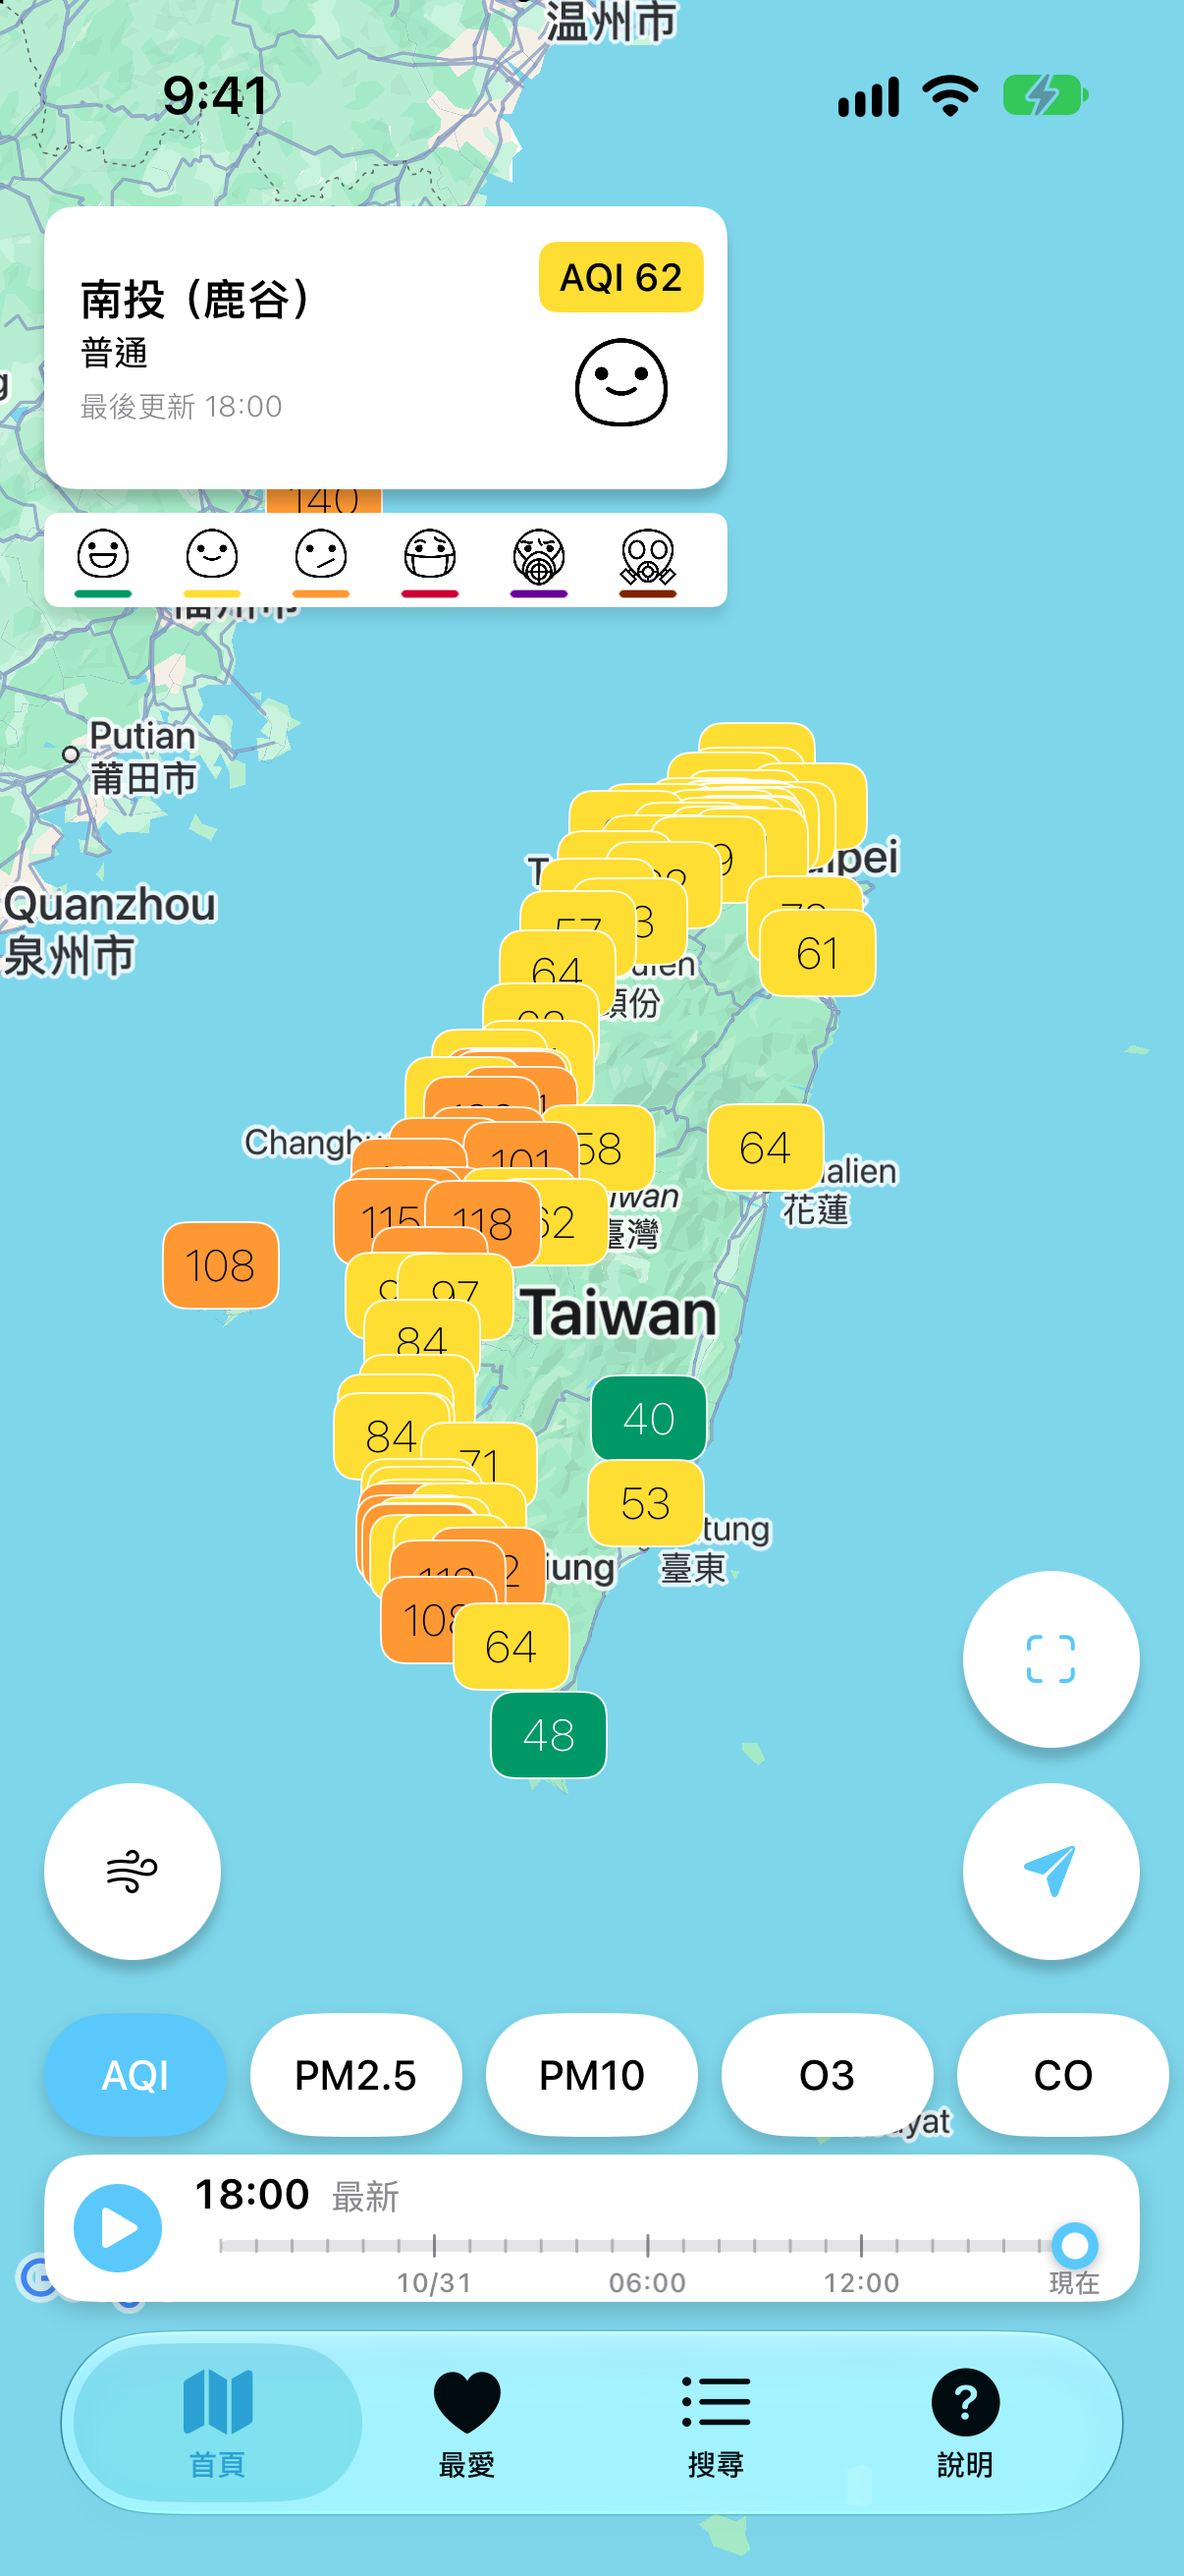
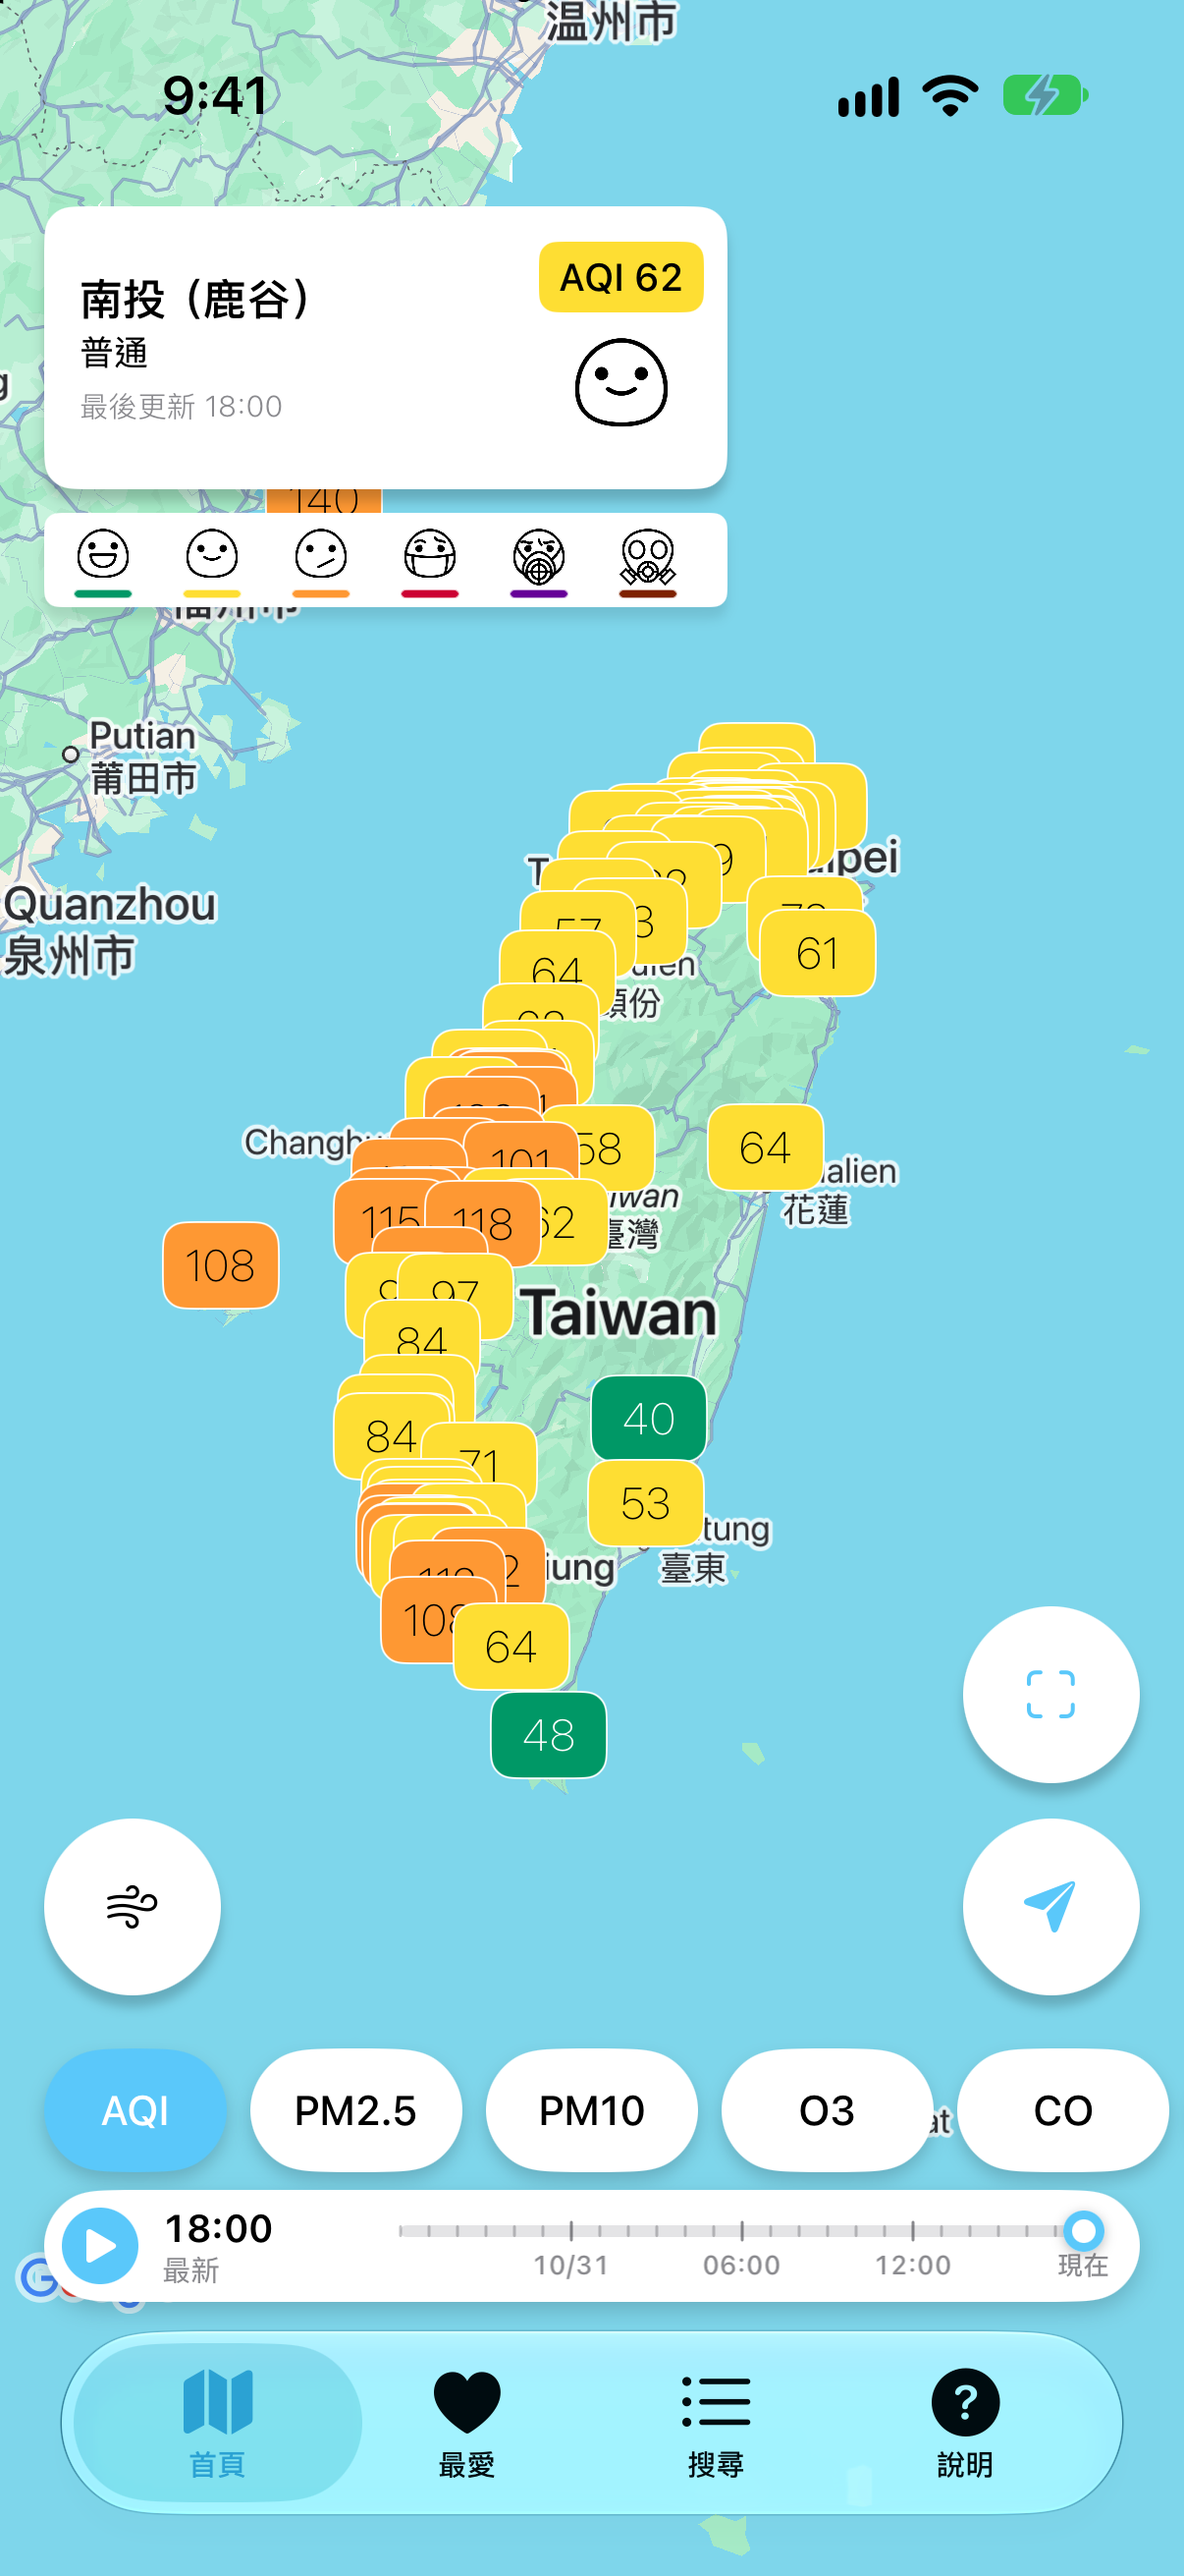
feat: one-row map timeline bar, 38pt tall
Play, the selected hour and the track now share a single row instead of
a title row stacked over the track (50pt -> 38pt). The loading count
takes the place of 「N 小時前」 while history arrives, replacing the
separate status label and spinner. Play is drawn at 26pt but takes taps
8pt beyond that, and the track takes the full bar height.

Screenshots refreshed.

Changed region(s): [[0.0307, 0.587, 1.0, 0.8959]]

diff --git a/TWAQI/Views/Main/MapTimelineView.swift b/TWAQI/Views/Main/MapTimelineView.swift
@@ -16,7 +16,12 @@ import UIKit
 /// hours before the latest reading and the right end is that reading; there is
 /// no forecast, so nothing lies to the right of "now".
 final class MapTimelineView: UIView {
-    static let preferredHeight: CGFloat = 50
+    /// One row: play, the selected hour, then the track. Kept low so the map
+    /// keeps the room; the touch targets reach past what is drawn.
+    static let preferredHeight: CGFloat = 38
+
+    /// Wide enough for 「昨天 22:00」, so the track doesn't shift as the hour changes.
+    private static let timeColumnWidth: CGFloat = 70
 
     /// The user moved the scrubber. Hours before the latest reading; 0 is live.
     var onChange: ((Int) -> Void)?
@@ -52,25 +57,17 @@ final class MapTimelineView: UIView {
         }
     }
 
-    /// Stations loaded out of those in view, while any are outstanding.
+    /// Stations loaded out of those in view, while any are outstanding. Shown
+    /// in place of 「N 小時前」 until they're in.
     var progress: (done: Int, total: Int)? {
-        didSet {
-            if let progress, progress.done < progress.total {
-                statusLabel.text = String(format: "Timeline.loading".localized, progress.done, progress.total)
-                spinner.startAnimating()
-            } else {
-                statusLabel.text = nil
-                spinner.stopAnimating()
-            }
-        }
+        didSet { updateDetail() }
     }
 
-    private static let playSymbol = UIImage.SymbolConfiguration(pointSize: 12, weight: .bold)
+    private static let playSymbol = UIImage.SymbolConfiguration(pointSize: 10, weight: .bold)
 
-    private let playButton = UIButton(type: .system)
-    private let titleLabel = UILabel()
-    private let statusLabel = UILabel()
-    private let spinner = UIActivityIndicatorView(style: .medium)
+    private let playButton = ExpandedHitButton(type: .system)
+    private let clockLabel = UILabel()
+    private let detailLabel = UILabel()
     private let track = MapTimelineTrack()
     private let selectionFeedback = UISelectionFeedbackGenerator()
 
@@ -89,7 +86,7 @@ final class MapTimelineView: UIView {
 
         // Same card treatment as the index pills and the closest-station card.
         backgroundColor = .tertiarySystemBackground
-        layer.cornerRadius = 14
+        layer.cornerRadius = Self.preferredHeight / 2
         layer.shadowColor = UIColor.black.cgColor
         layer.shadowOffset = CGSize(width: 0, height: 3)
         layer.shadowRadius = 4
@@ -97,40 +94,35 @@ final class MapTimelineView: UIView {
 
         playButton.backgroundColor = IndexSelectorView.accent
         playButton.tintColor = .white
-        playButton.layer.cornerRadius = 15
+        playButton.layer.cornerRadius = 13
         playButton.isEnabled = false
         playButton.addTarget(self, action: #selector(playTapped), for: .touchUpInside)
         isPlaying = false
         addSubview(playButton)
         playButton.snp.makeConstraints { make in
-            make.left.equalToSuperview().offset(10)
+            make.left.equalToSuperview().offset(6)
             make.centerY.equalToSuperview()
-            make.width.height.equalTo(30)
+            make.width.height.equalTo(26)
         }
 
-        titleLabel.adjustsFontForContentSizeCategory = false
-        addSubview(titleLabel)
-        titleLabel.snp.makeConstraints { make in
-            make.left.equalTo(playButton.snp.right).offset(10)
-            make.top.equalToSuperview().offset(5)
-            make.height.equalTo(17)
-        }
+        clockLabel.font = .monospacedDigitSystemFont(ofSize: 13, weight: .semibold)
+        clockLabel.textColor = .label
+        clockLabel.adjustsFontSizeToFitWidth = true
+        clockLabel.minimumScaleFactor = 0.8
+        detailLabel.font = .monospacedDigitSystemFont(ofSize: 10, weight: .regular)
+        detailLabel.textColor = .secondaryLabel
+        detailLabel.adjustsFontSizeToFitWidth = true
+        detailLabel.minimumScaleFactor = 0.8
 
-        statusLabel.font = .monospacedDigitSystemFont(ofSize: 11, weight: .regular)
-        statusLabel.textColor = .secondaryLabel
-        addSubview(statusLabel)
-        statusLabel.snp.makeConstraints { make in
-            make.right.equalToSuperview().offset(-12)
-            make.centerY.equalTo(titleLabel)
-            make.left.greaterThanOrEqualTo(titleLabel.snp.right).offset(8)
-        }
-
-        spinner.hidesWhenStopped = true
-        spinner.transform = CGAffineTransform(scaleX: 0.7, y: 0.7)
-        addSubview(spinner)
-        spinner.snp.makeConstraints { make in
-            make.right.equalTo(statusLabel.snp.left).offset(-2)
-            make.centerY.equalTo(titleLabel)
+        let timeStack = UIStackView(arrangedSubviews: [clockLabel, detailLabel])
+        timeStack.axis = .vertical
+        timeStack.spacing = 0
+        timeStack.isAccessibilityElement = false
+        addSubview(timeStack)
+        timeStack.snp.makeConstraints { make in
+            make.left.equalTo(playButton.snp.right).offset(8)
+            make.centerY.equalToSuperview()
+            make.width.equalTo(Self.timeColumnWidth)
         }
 
         track.isUserInteractionEnabled = false
@@ -138,10 +130,9 @@ final class MapTimelineView: UIView {
         track.onAccessibilityStep = { [weak self] delta in self?.step(by: delta) }
         addSubview(track)
         track.snp.makeConstraints { make in
-            make.left.equalTo(titleLabel)
-            make.right.equalToSuperview().offset(-12)
-            make.top.equalTo(titleLabel.snp.bottom)
-            make.bottom.equalToSuperview().offset(-1)
+            make.left.equalTo(timeStack.snp.right).offset(2)
+            make.right.equalToSuperview().offset(-10)
+            make.top.bottom.equalToSuperview()
         }
 
         updateSelection(animated: false)
@@ -174,28 +165,29 @@ final class MapTimelineView: UIView {
 
     private func updateSelection(animated: Bool) {
         track.setIndex(MapHistoryStore.hours - hoursAgo, animated: animated)
-        titleLabel.attributedText = title
-        track.accessibilityValue = titleLabel.attributedText?.string
+
+        let description = anchor.flatMap { MapTimeline.describe(anchor: $0, hoursAgo: hoursAgo) }
+        clockLabel.text = description?.clock ?? "Timeline.title".localized
+        updateDetail()
+        track.accessibilityValue = [description?.clock, description?.relative]
+            .compactMap { $0 }
+            .joined(separator: " ")
     }
 
-    /// "14:00  3 小時前", "昨天 22:00  19 小時前", or "17:00  最新".
-    private var title: NSAttributedString {
-        let primary: [NSAttributedString.Key: Any] = [
-            .font: UIFont.monospacedDigitSystemFont(ofSize: 14, weight: .semibold),
-            .foregroundColor: UIColor.label,
-        ]
-        let secondary: [NSAttributedString.Key: Any] = [
-            .font: UIFont.systemFont(ofSize: 12, weight: .regular),
-            .foregroundColor: UIColor.secondaryLabel,
-        ]
-
-        guard let anchor, let description = MapTimeline.describe(anchor: anchor, hoursAgo: hoursAgo) else {
-            return NSAttributedString(string: "Timeline.title".localized, attributes: secondary)
+    /// 「3 小時前」 / 「最新」, or 「載入中 12/84」 while history is arriving.
+    private func updateDetail() {
+        if let progress, progress.done < progress.total {
+            detailLabel.text = String(format: "Timeline.loading".localized, progress.done, progress.total)
+        } else {
+            detailLabel.text = anchor.flatMap { MapTimeline.describe(anchor: $0, hoursAgo: hoursAgo) }?.relative
         }
+    }
+}
 
-        let text = NSMutableAttributedString(string: description.clock, attributes: primary)
-        text.append(NSAttributedString(string: "  \(description.relative)", attributes: secondary))
-        return text
+/// A small button that still takes a fingertip-sized tap.
+private final class ExpandedHitButton: UIButton {
+    override func point(inside point: CGPoint, with event: UIEvent?) -> Bool {
+        bounds.insetBy(dx: -8, dy: -8).contains(point)
     }
 }
 
@@ -221,8 +213,8 @@ final class MapTimelineTrack: UIView {
     }()
 
     private let steps = MapHistoryStore.hours
-    private let trackY: CGFloat = 9
-    private let thumbSize: CGFloat = 16
+    private let trackY: CGFloat = 14
+    private let thumbSize: CGFloat = 14
     private var index = MapHistoryStore.hours
 
     private let thumb = UIView()
@@ -248,7 +240,7 @@ final class MapTimelineTrack: UIView {
         thumb.backgroundColor = .white
         thumb.layer.cornerRadius = thumbSize / 2
         thumb.layer.borderColor = IndexSelectorView.accent.cgColor
-        thumb.layer.borderWidth = 3.5
+        thumb.layer.borderWidth = 3
         thumb.layer.shadowColor = UIColor.black.cgColor
         thumb.layer.shadowOffset = CGSize(width: 0, height: 1)
         thumb.layer.shadowRadius = 2
@@ -301,7 +293,7 @@ final class MapTimelineTrack: UIView {
         for (index, label) in tickLabels {
             label.sizeToFit()
             var frame = label.frame
-            frame.origin.y = trackY + 7
+            frame.origin.y = trackY + 6
             frame.origin.x = x(for: index) - frame.width / 2
             // The end label ("現在") hangs left of its tick rather than off the bar.
             frame.origin.x = min(max(frame.origin.x, 0), bounds.width - frame.width)
@@ -368,7 +360,7 @@ final class MapTimelineTrack: UIView {
         // Ticks first, so the filled stretch reads as one bar over them.
         for tick in 0...steps {
             let isMajor = majorTicks.contains(tick)
-            let height: CGFloat = isMajor ? 8 : 5
+            let height: CGFloat = isMajor ? 7 : 4
             let line = UIBezierPath(
                 roundedRect: CGRect(x: x(for: tick) - 0.5, y: trackY - height / 2, width: 1, height: height),
                 cornerRadius: 0.5
@@ -407,7 +399,7 @@ final class MapTimelineTrack: UIView {
     /// The bar's own hit area is taller than its drawing, so a thumb that lands
     /// a little above or below the rail still scrubs.
     override func point(inside point: CGPoint, with event: UIEvent?) -> Bool {
-        bounds.insetBy(dx: -8, dy: -12).contains(point)
+        bounds.insetBy(dx: -8, dy: -8).contains(point)
     }
 
     override func accessibilityIncrement() {
